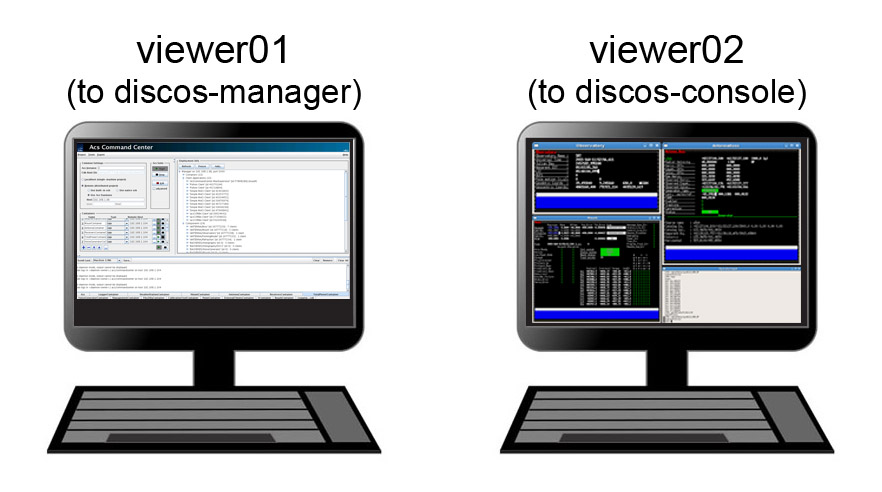
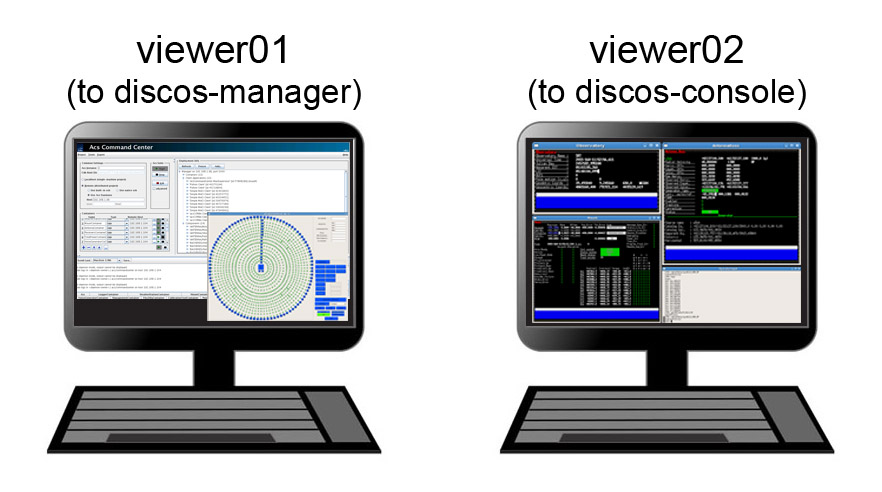
Update of logistics info

Changed region(s): [[0.2143, 0.4268, 0.398, 0.6707]]

diff --git a/user/srt/source/Startup.rst b/user/srt/source/Startup.rst
@@ -21,9 +21,9 @@ Login
 What to use viewer01 for
 ========================
 
-This machine is accessed to manage the ACS Command Center. 
-Under ordinary conditions it is of no use to the observers, who should access it
-only in case they need to reboot discos/ACS.  
+This machine is accessed to manage the ACS Command Center and the Active Surface
+GUI. Under ordinary conditions it is used to monitor the AS status, plus it 
+is to be accessed to reboot discos/ACS when needed.  
 You can login with::
 
     username: discos       pwd:  **********

diff --git a/user/srt/source/Checklist.rst b/user/srt/source/Checklist.rst
@@ -11,7 +11,7 @@ Notice that actions take place in three different “locations”:
   * **(op)** = command to be given in the *operatorInput* panel of DISCOS
 
 
-**Login on both (dc)** 
+**Login on (dc)** 
 
 **Launch the monitors, if necessary** (dc):: 
 
